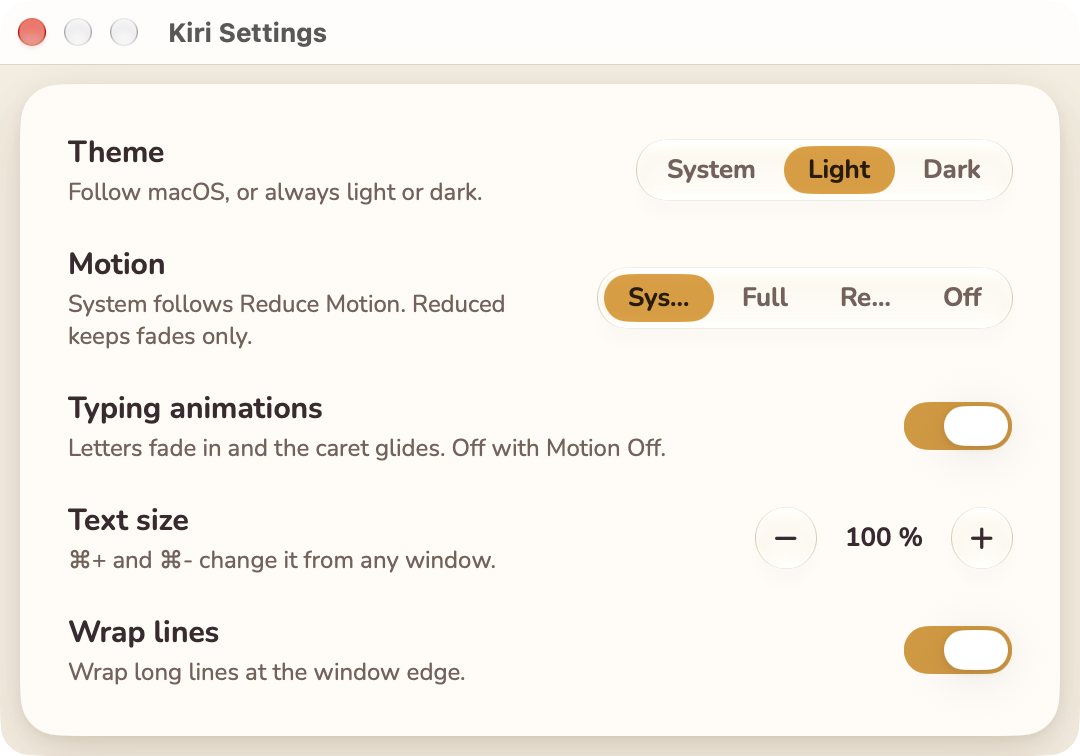
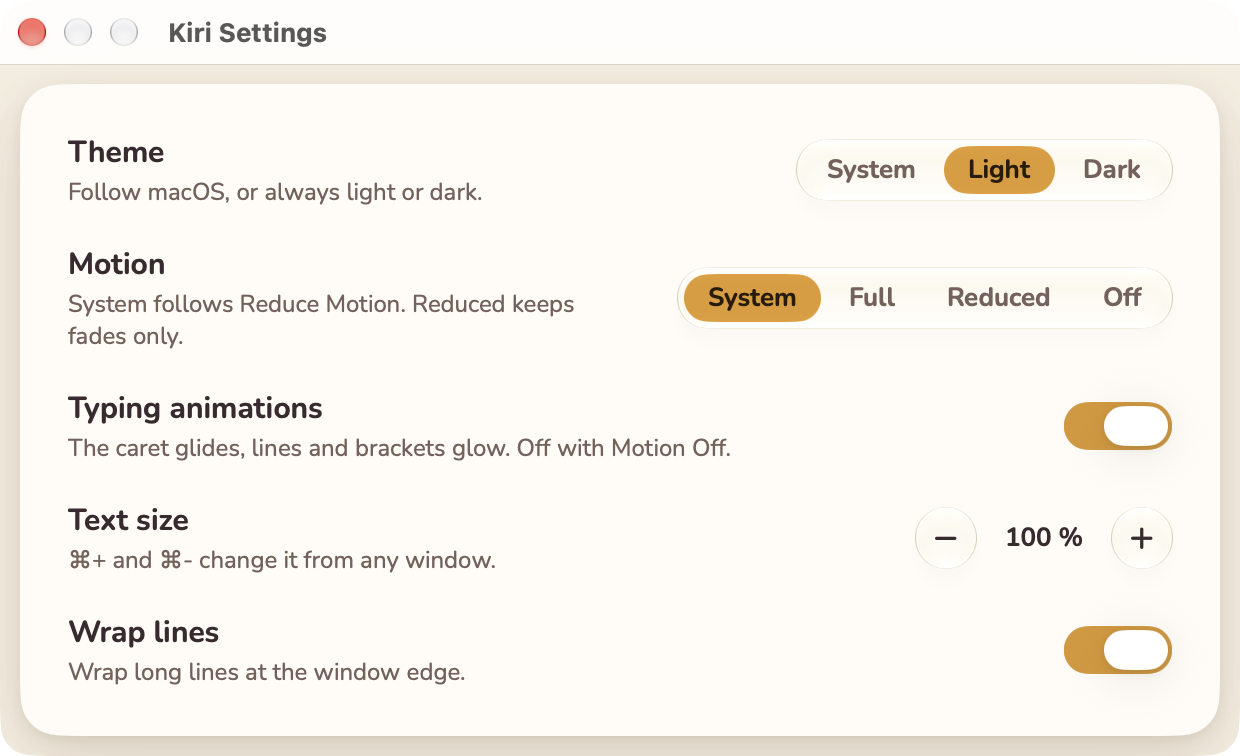
Retake screenshots; find without grey dimming
- docs/screenshots retaken from the release build with the balanced top
  bar and the fixed Settings picker.
- Find no longer uses incremental search, which dimmed the whole text grey
  while the find bar was open; Return / Cmd-G find the next match.
- Screenshot helper types into only one document.

diff --git a/App/Kiri/SelfTest.swift b/App/Kiri/SelfTest.swift
@@ -10,6 +10,7 @@ import os
 /// undoes, reverts and quits. Results go to stdout as `SELFTEST …` lines.
 @MainActor enum SelfTest {
     private static var started = false
+    private static var typedOnLaunch = false
     static var enabled: Bool { UserDefaults.standard.bool(forKey: "KiriSelfTest") }
 
     static var perf: Bool { UserDefaults.standard.bool(forKey: "KiriPerfTest") }
@@ -37,7 +38,8 @@ import os
         }
         // Screenshot helpers: type into the document (makes it dirty), and
         // open the find bar searching for a word.
-        if let typed = UserDefaults.standard.string(forKey: "KiriTypeOnLaunch") {
+        if let typed = UserDefaults.standard.string(forKey: "KiriTypeOnLaunch"), !typedOnLaunch {
+            typedOnLaunch = true
             DispatchQueue.main.asyncAfter(deadline: .now() + 1) {
                 textView.setSelectedRange(NSRange(location: (textView.string as NSString).length, length: 0))
                 textView.insertText(typed, replacementRange: textView.selectedRange())

diff --git a/App/Kiri/EditorTextView.swift b/App/Kiri/EditorTextView.swift
@@ -267,7 +267,9 @@ final class EditorContainerView: NSView {
         textView.importsGraphics = false
         textView.allowsUndo = true
         textView.usesFindBar = true
-        textView.isIncrementalSearchingEnabled = true
+        // Incremental search dims the whole text grey while searching; Kiri
+        // finds on Return / ⌘G instead and keeps the text readable.
+        textView.isIncrementalSearchingEnabled = false
         textView.isAutomaticQuoteSubstitutionEnabled = false
         textView.isAutomaticDashSubstitutionEnabled = false
         textView.isAutomaticTextReplacementEnabled = false
@@ -331,3 +333,4 @@ final class EditorContainerView: NSView {
         gutter.needsDisplay = true
     }
 }
+
